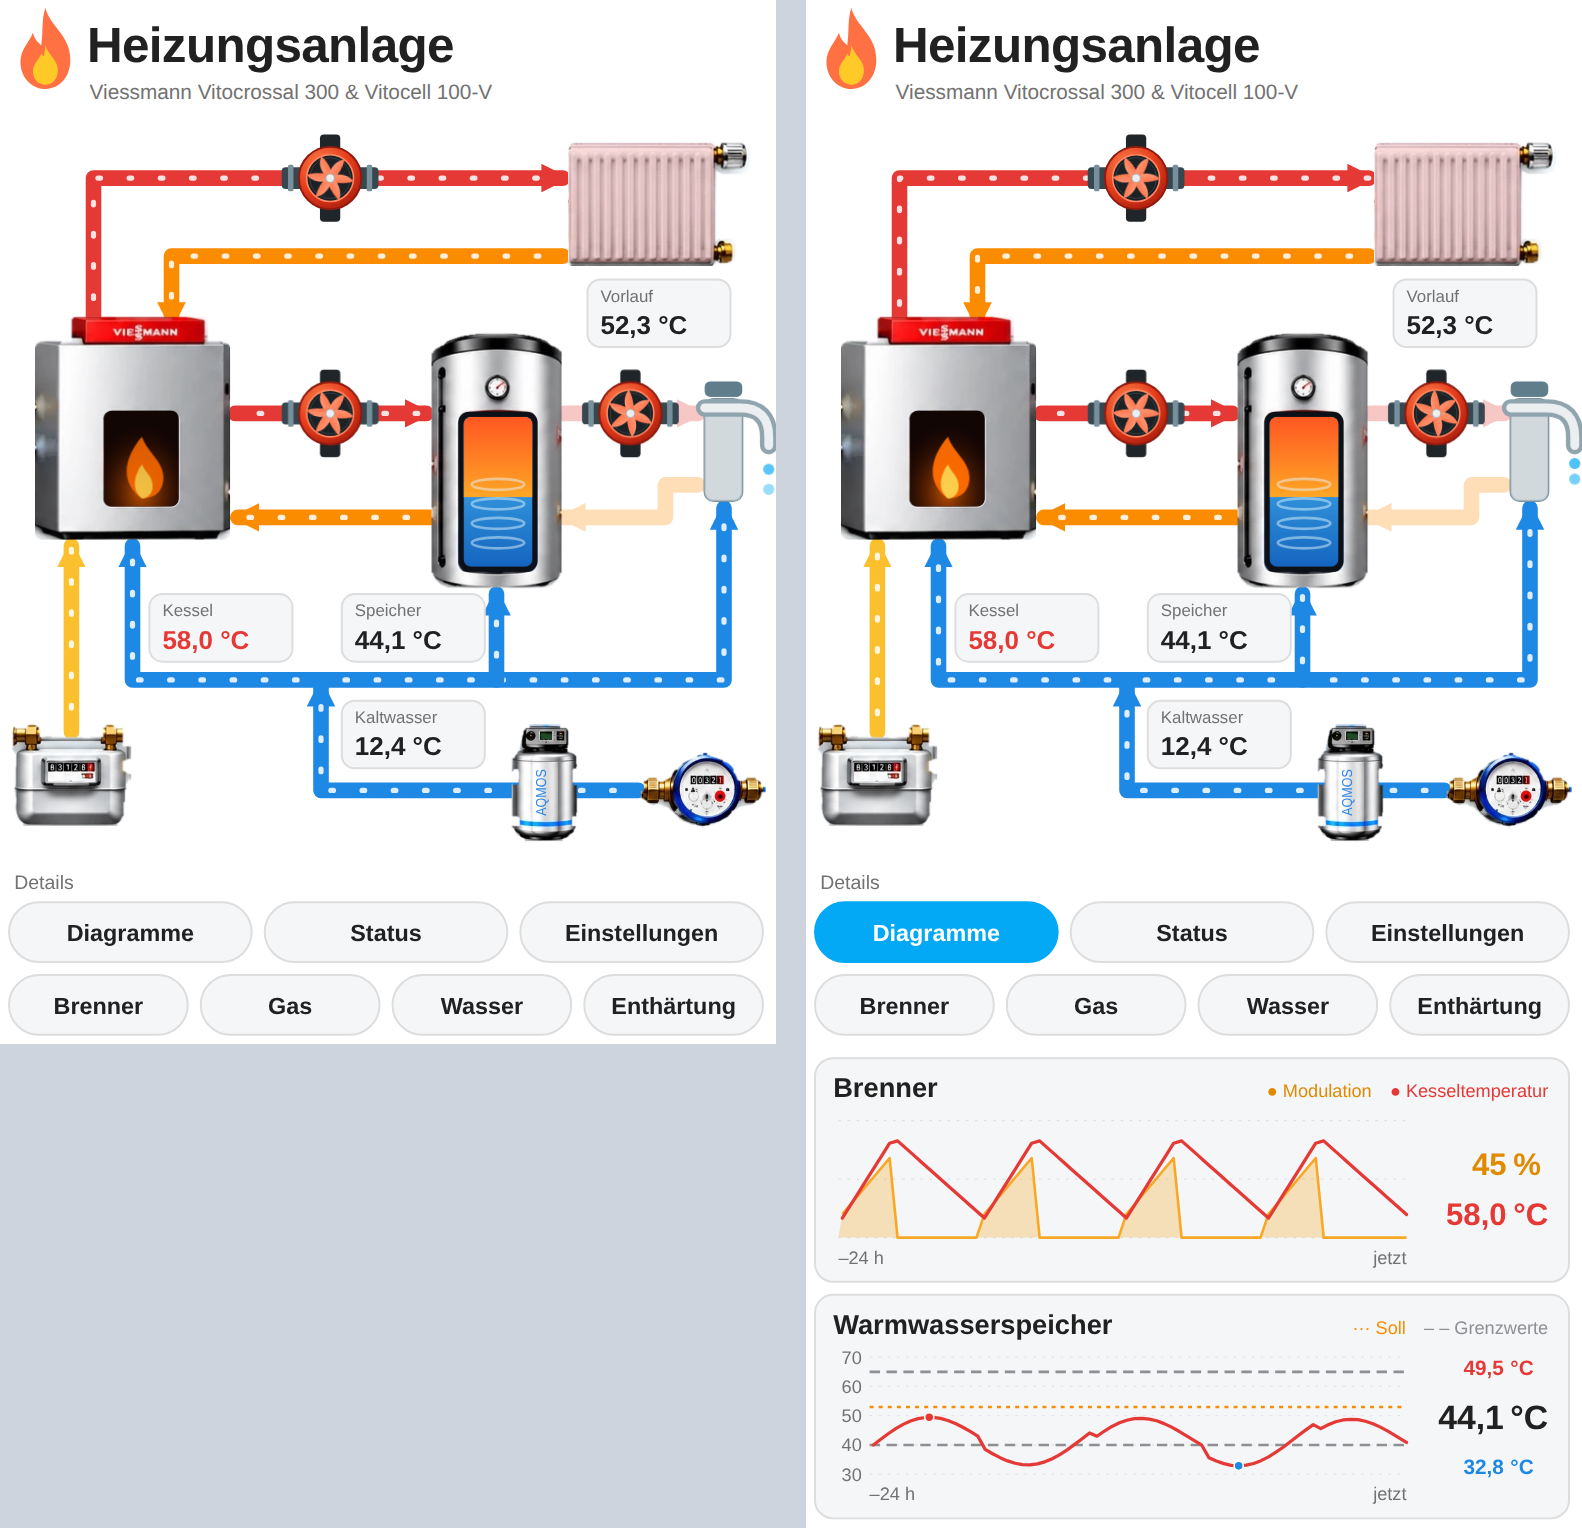
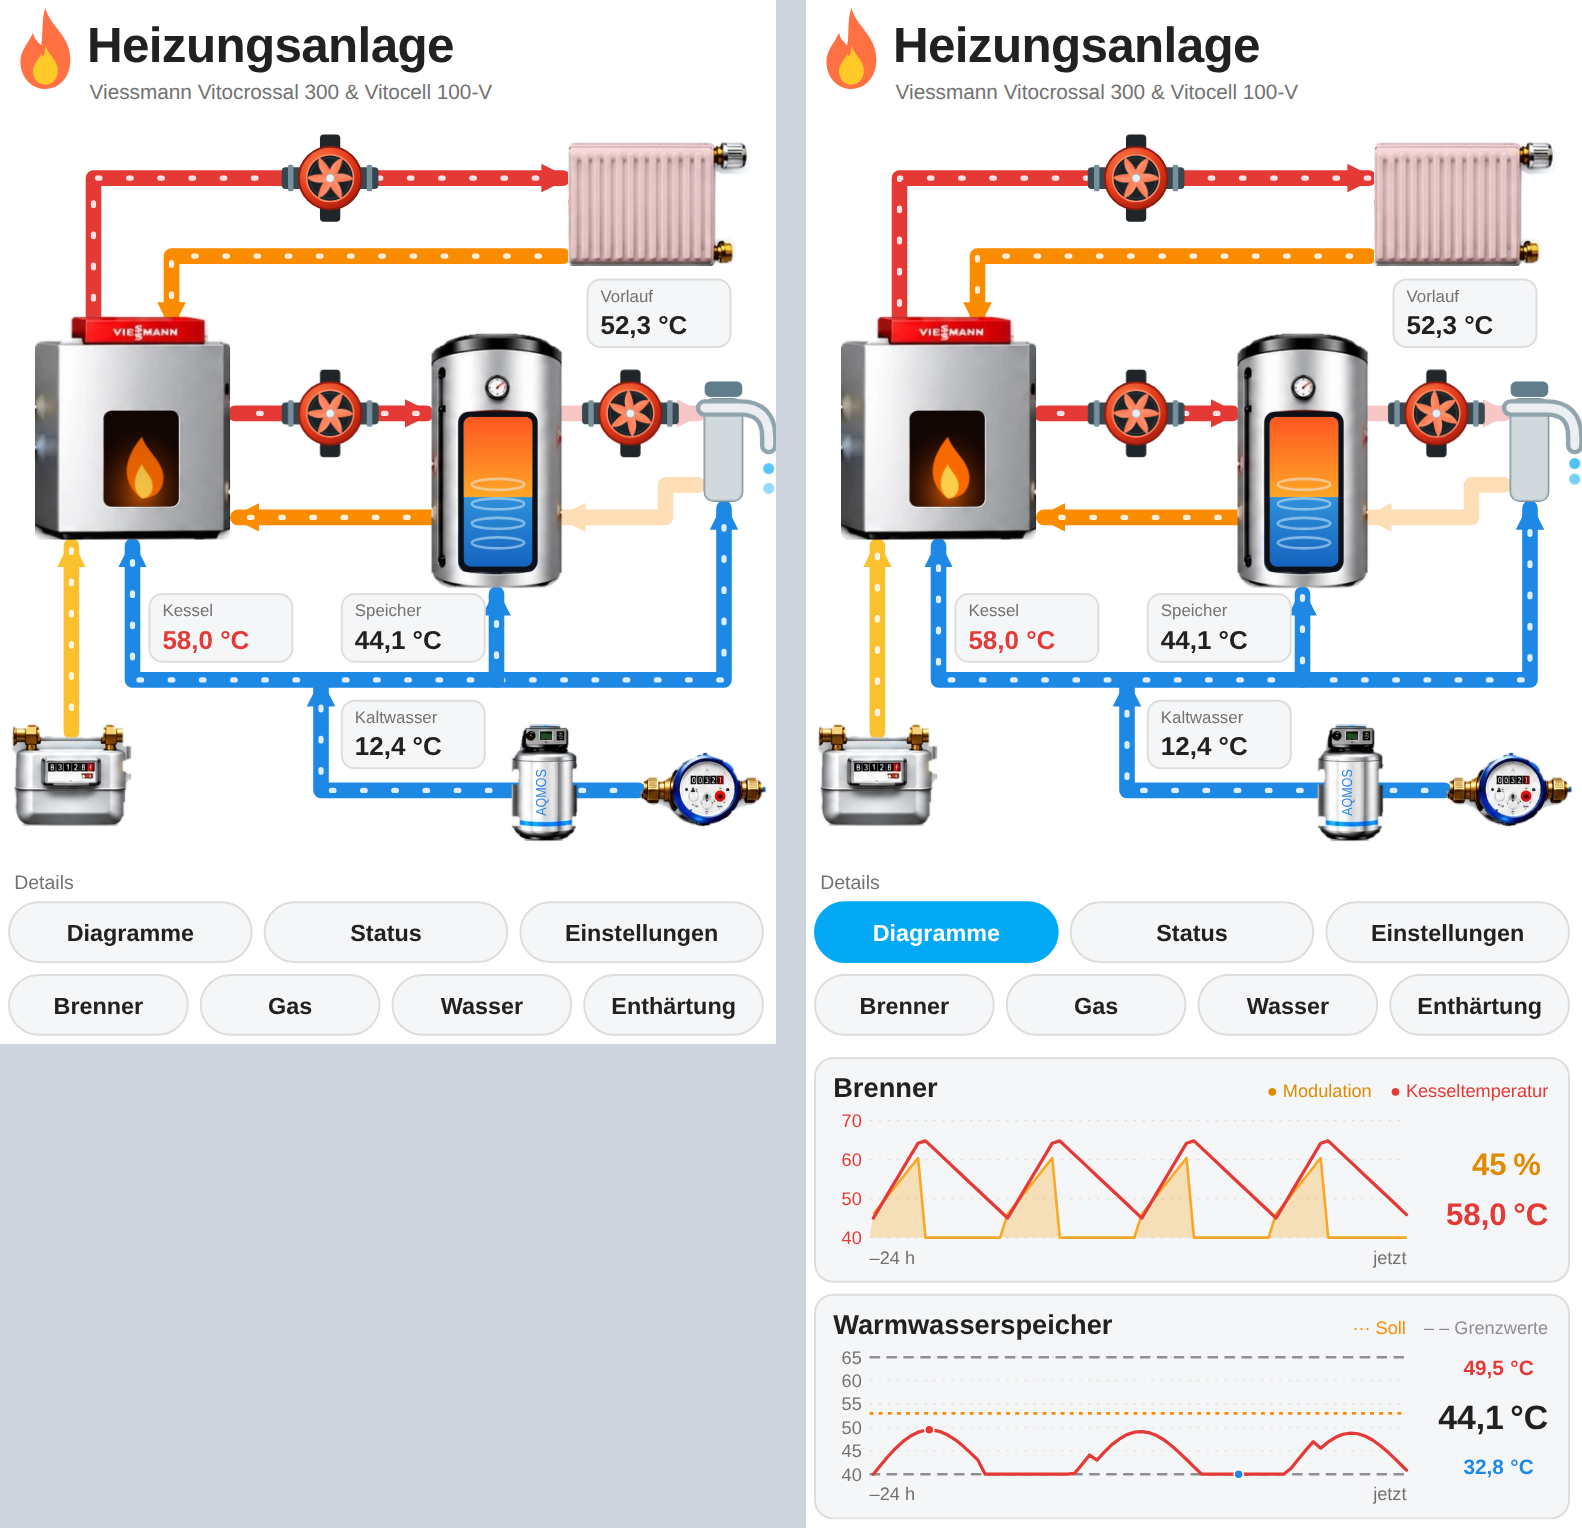
Speicherdiagramm: Skala von Mindest-Soll −5 K bis Maximal-Soll +5 K; Brennerdiagramm mit Y-Achse (1.0.3)
Claude-Session: https://claude.ai/code/session_01Fnuj4kHQyJopGXRgGAZu7u

diff --git a/dist/heizungsanlage-card.js b/dist/heizungsanlage-card.js
@@ -8,7 +8,7 @@
  *   card:      type: custom:heizungsanlage-card   (Einstellungen über den visuellen Editor)
  */
 
-const CARD_VERSION = '1.0.2';
+const CARD_VERSION = '1.0.3';
 
 // Geräte-Grafiken (freigestellt, eingebettet – keine externen Dateien nötig)
 const IMG = {
@@ -674,7 +674,7 @@ class HeizungsanlageCard extends HTMLElement {
       const th = 172; // Kachelhöhe inkl. Überschrift
       const t2 = py + th + 10;
       ph = th * 2 + 10;
-      const g1 = { x0: 28, x1: 465, y0: py + 48, y1: py + 138 };
+      const g1 = { x0: 52, x1: 465, y0: py + 48, y1: py + 138 };
       const g2 = { x0: 52, x1: 465, y0: t2 + 48, y1: t2 + 138 };
       panel =
         tile(10, py, 580, th) +
@@ -1069,13 +1069,25 @@ class HeizungsanlageCard extends HTMLElement {
     return d + `L${X1},${sy(last.v).toFixed(1)}`;
   }
 
+  // Werte der Y-Achse: Unter- und Obergrenze plus runde Zwischenwerte (zu nahe an den Grenzen entfallen)
+  _ticks(mn, mx, sy) {
+    const px = Math.abs(sy(mn) - sy(mx)); // Höhe des Diagramms
+    const step = [5, 10, 20, 25, 50].find((st) => (px * st) / (mx - mn) >= 18) || 50; // Abstand mind. 18 px
+    const ticks = [mn];
+    for (let v = Math.floor(mn / step) * step + step; v < mx; v += step) {
+      if (Math.abs(sy(v) - sy(mn)) >= 12 && Math.abs(sy(v) - sy(mx)) >= 12) ticks.push(v);
+    }
+    ticks.push(mx);
+    return ticks;
+  }
+
   // Brenner: Modulation (Fläche) und Kesseltemperatur (Linie) in einem Graphen
   _drawBurnerChart() {
     const g = this.shadowRoot && this.shadowRoot.getElementById('chart-burner');
     if (!g) return;
     const E = this._config.entities;
     const D = g.dataset;
-    const X0 = D.x0 ? +D.x0 : 452, X1 = D.x1 ? +D.x1 : 618;
+    const X0 = D.x0 ? +D.x0 : 482, X1 = D.x1 ? +D.x1 : 618;
     const Y0 = D.y0 ? +D.y0 : 702, Y1 = D.y1 ? +D.y1 : 802;
     const mod = this._hists[E.burner_modulation] || [];
     const bt = this._hists[E.boiler_temp] || [];
@@ -1087,10 +1099,21 @@ class HeizungsanlageCard extends HTMLElement {
     const t0 = now - 24 * 3600 * 1000;
     const sx = (t) => X0 + ((Math.max(t, t0) - t0) / (now - t0)) * (X1 - X0);
     let s = '';
-    for (let i = 0; i <= 2; i++) {
-      const y = (Y0 + (i * (Y1 - Y0)) / 2).toFixed(1);
-      s += `<line x1="${X0}" x2="${X1}" y1="${y}" y2="${y}" stroke="var(--divider-color,#ccc)" stroke-width="1" stroke-dasharray="2 5" opacity=".8"/>`;
+    // Y-Achse: Kesseltemperatur (rot); ohne Temperaturverlauf die Modulation in % (orange)
+    let axis = { mn: 0, mx: 100, color: '#e08a00' };
+    if (bt.length >= 2) {
+      const vals = bt.map((p) => p.v);
+      let mn = Math.floor((Math.min(...vals) - 2) / 5) * 5;
+      let mx = Math.ceil((Math.max(...vals) + 2) / 5) * 5;
+      if (mx - mn < 10) mx = mn + 10;
+      axis = { mn, mx, color: '#e53935' };
     }
+    const sya = (v) => Y1 - ((v - axis.mn) / (axis.mx - axis.mn)) * (Y1 - Y0);
+    this._ticks(axis.mn, axis.mx, sya).forEach((v) => {
+      const y = sya(v).toFixed(1);
+      s += `<line x1="${X0}" x2="${X1}" y1="${y}" y2="${y}" stroke="var(--divider-color,#ccc)" stroke-width="1" stroke-dasharray="2 5" opacity=".8"/>`;
+      s += `<text class="tick" x="${X0 - 6}" y="${(+y + 5).toFixed(1)}" text-anchor="end" style="fill:${axis.color}">${v}</text>`;
+    });
     if (mod.length >= 2) {
       const sy = (v) => Y1 - (Math.max(0, Math.min(100, v)) / 100) * (Y1 - Y0);
       const d = this._series(mod, sx, sy, X1);
@@ -1098,12 +1121,7 @@ class HeizungsanlageCard extends HTMLElement {
       s += `<path d="${d}" fill="none" stroke="#f9a825" stroke-width="2" stroke-linejoin="round"/>`;
     }
     if (bt.length >= 2) {
-      const vals = bt.map((p) => p.v);
-      let mn = Math.floor((Math.min(...vals) - 2) / 5) * 5;
-      let mx = Math.ceil((Math.max(...vals) + 2) / 5) * 5;
-      if (mx - mn < 10) mx = mn + 10;
-      const sy = (v) => Y1 - ((v - mn) / (mx - mn)) * (Y1 - Y0);
-      s += `<path d="${this._series(bt, sx, sy, X1)}" fill="none" stroke="#e53935" stroke-width="2.5" stroke-linejoin="round" stroke-linecap="round"/>`;
+      s += `<path d="${this._series(bt, sx, sya, X1)}" fill="none" stroke="#e53935" stroke-width="2.5" stroke-linejoin="round" stroke-linecap="round"/>`;
     }
     // Zeitfenster: immer die letzten 24 Stunden
     s += `<text class="tick" x="${X0}" y="${Y1 + 20}">–24 h</text><text class="tick" x="${X1}" y="${Y1 + 20}" text-anchor="end">jetzt</text>`;
@@ -1132,20 +1150,25 @@ class HeizungsanlageCard extends HTMLElement {
     const lmin = rawMin != null ? rawMin - off : null; // Mindest-Soll minus Offset
     const lmax = rawMax != null ? rawMax + off : null; // Maximal-Soll plus Offset
 
+    // Skala: von den grauen Grenzlinien begrenzt (Mindest-Soll minus Abstand bis Maximal-Soll plus Abstand);
+    // fehlt ein Grenzwert, wird diese Seite aus dem Verlauf bestimmt
     const vals = pts.map((p) => p.v);
-    [tgt, lmin, lmax].forEach((v) => v != null && vals.push(v));
-    let mn = Math.floor((Math.min(...vals) - 2) / 5) * 5;
-    let mx = Math.ceil((Math.max(...vals) + 2) / 5) * 5;
-    if (mx - mn < 15) mx = mn + 15;
-    const step = mx - mn > 30 ? 10 : 5;
+    if (tgt != null) vals.push(tgt);
+    let mn = lmin != null ? lmin : Math.floor((Math.min(...vals) - 2) / 5) * 5;
+    let mx = lmax != null ? lmax : Math.ceil((Math.max(...vals) + 2) / 5) * 5;
+    if (mx - mn < 10) {
+      if (lmax == null) mx = mn + 10;
+      else mn = mx - 10;
+    }
     const sx = (t) => X0 + ((Math.max(t, t0) - t0) / (now - t0)) * (X1 - X0);
-    const sy = (v) => Y1 - ((v - mn) / (mx - mn)) * (Y1 - Y0);
+    // Werte außerhalb der Skala werden am Rand gezeichnet (die Zahlen rechts zeigen weiterhin die echten Werte)
+    const sy = (v) => Y1 - ((Math.max(mn, Math.min(mx, v)) - mn) / (mx - mn)) * (Y1 - Y0);
 
     let s = '';
-    for (let v = mn; v <= mx; v += step) {
+    this._ticks(mn, mx, sy).forEach((v) => {
       s += `<line x1="${X0}" x2="${X1}" y1="${sy(v).toFixed(1)}" y2="${sy(v).toFixed(1)}" stroke="var(--divider-color,#ccc)" stroke-width="1" stroke-dasharray="2 5" opacity=".7"/>`;
-      s += `<text class="tick" x="${X0 - 6}" y="${(sy(v) + 5).toFixed(1)}" text-anchor="end">${v}</text>`;
-    }
+      s += `<text class="tick" x="${X0 - 6}" y="${(sy(v) + 5).toFixed(1)}" text-anchor="end">${+v.toFixed(1)}</text>`;
+    });
     // Grenzwerte (grau gestrichelt, ohne Beschriftung)
     [lmin, lmax].forEach((v) => {
       if (v == null) return;
@@ -1243,7 +1266,7 @@ const EDITOR_I18N = {
       e_tank_max_target: 'Graue Grenzlinie im Diagramm = dieser Wert plus Abstand',
       tank_range_min: 'Temperatur, bei der der Speicher in der Grafik „leer" ist',
       tank_range_max: 'Temperatur, bei der der Speicher in der Grafik „voll" ist',
-      limit_offset: 'Abstand der grauen Linien zu den Soll-Grenzwerten in Kelvin',
+      limit_offset: 'Abstand der grauen Linien zu den Soll-Grenzwerten in Kelvin; die Linien sind zugleich Unter- und Obergrenze der Skala',
       e_gas_total: 'Leer lassen = automatisch aus dem Energie-Dashboard',
       e_gas_today: 'Leer lassen = Tagesverbrauch aus dem Energie-Dashboard',
       e_water_total: 'Leer lassen = automatisch aus dem Energie-Dashboard',
@@ -1309,7 +1332,7 @@ const EDITOR_I18N = {
       e_tank_max_target: 'Grey limit line in the chart = this value plus offset',
       tank_range_min: 'Temperature at which the tank graphic shows "empty"',
       tank_range_max: 'Temperature at which the tank graphic shows "full"',
-      limit_offset: 'Distance of the grey lines to the target limits in Kelvin',
+      limit_offset: 'Distance of the grey lines to the target limits in Kelvin; the lines are also the bottom and top of the scale',
       e_gas_total: 'Leave empty = automatic from the Energy dashboard',
       e_gas_today: 'Leave empty = daily usage from the Energy dashboard',
       e_water_total: 'Leave empty = automatic from the Energy dashboard',

diff --git a/README.md b/README.md
@@ -15,8 +15,8 @@ Gas- und Wasserzähler, Enthärtungsanlage – mit Live-Werten und Verläufen.
 
 - **Animierte Leitungen:** Heizkreis, Ladekreis, Zirkulation und Kaltwasser laufen nur, wenn die jeweilige Pumpe bzw. der Durchfluss aktiv ist.
 - **Pumpen mit drehendem Flügelrad**, solange sie laufen.
-- **Brenner:** Flamme im Sichtfenster, Größe folgt der Modulation. Darunter ein 24-h-Graph mit Modulation und Kesseltemperatur.
-- **Warmwasserspeicher:** Füllanzeige, 24-h-Verlauf mit Soll-Linie, zwei grauen Grenzlinien sowie Maximum, Istwert und Minimum.
+- **Brenner:** Flamme im Sichtfenster, Größe folgt der Modulation. Darunter ein 24-h-Graph mit Modulation und Kesseltemperatur (Y-Achse in °C für die Kesseltemperatur).
+- **Warmwasserspeicher:** Füllanzeige, 24-h-Verlauf mit Soll-Linie, zwei grauen Grenzlinien sowie Maximum, Istwert und Minimum. Die Skala reicht von 5 K unter dem Mindest-Sollwert bis 5 K über dem Maximal-Sollwert (`limit_offset`); die grauen Grenzlinien bilden Unter- und Obergrenze.
 - **Einheiten umgerechnet:** Der Wasserzähler zeigt den Stand in m³ mit zwei Nachkommastellen und den Durchfluss in ℓ/h, egal in welcher Einheit der Sensor liefert (L, m³; m³/h, l/min, l/h …). Liter werden mit dem Symbol ℓ geschrieben, damit es nicht mit einem großen I verwechselt wird.
 - **Einheiten linksbündig:** In Boxen mit mehreren Zahlenwerten stehen die Einheiten linksbündig untereinander, die Zahlen rechtsbündig davor.
 - **Gas und Wasser aus dem Energie-Dashboard** (Stand und Tagesverbrauch), ohne zusätzliche Konfiguration.
@@ -93,7 +93,7 @@ screen_offset: 32          # Abzug von der Bildschirmhöhe in px
 title: Heizungsanlage
 subtitle: Viessmann Vitocrossal 300 & Vitocell 100-V
 tank_range: [20, 65]      # Temperaturbereich der Füllanzeige im Speicher (°C)
-limit_offset: 5           # graue Grenzlinien: Mindest-Soll minus 5 K, Maximal-Soll plus 5 K
+limit_offset: 5           # graue Grenzlinien und Skalengrenzen: Mindest-Soll minus 5 K, Maximal-Soll plus 5 K
 entities:
   outside_temp: sensor.vicare_outside_temperature
   frost_protection: binary_sensor.vicare_frost_protection_active

diff --git a/CHANGELOG.md b/CHANGELOG.md
@@ -1,5 +1,11 @@
 # Changelog
 
+## 1.0.3
+
+- Speicherdiagramm: Die Skala reicht jetzt von 5 K unter dem Mindest-Sollwert bis 5 K über dem Maximal-Sollwert
+  (`limit_offset`); die grauen Grenzlinien sind Unter- und Obergrenze.
+- Brennerdiagramm: Y-Achse mit den Werten der Kesseltemperatur.
+
 ## 1.0.2
 
 - Breites Layout: Das Schema passt sich der Bildschirmhöhe an und wird ohne Scrollen vollständig angezeigt, z. B. auf dem iPad
